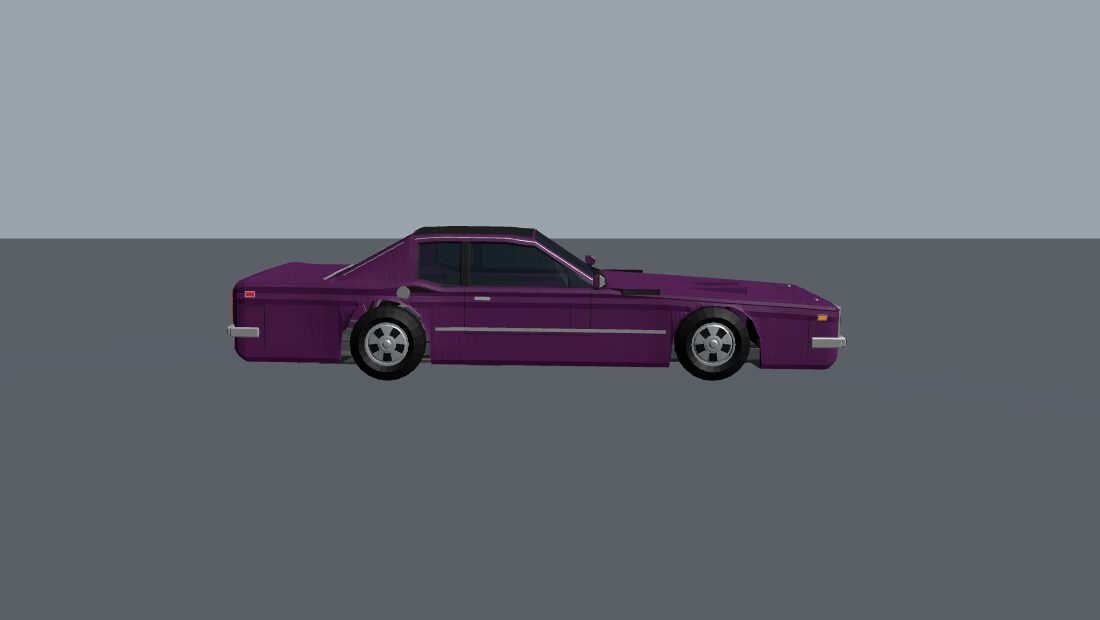
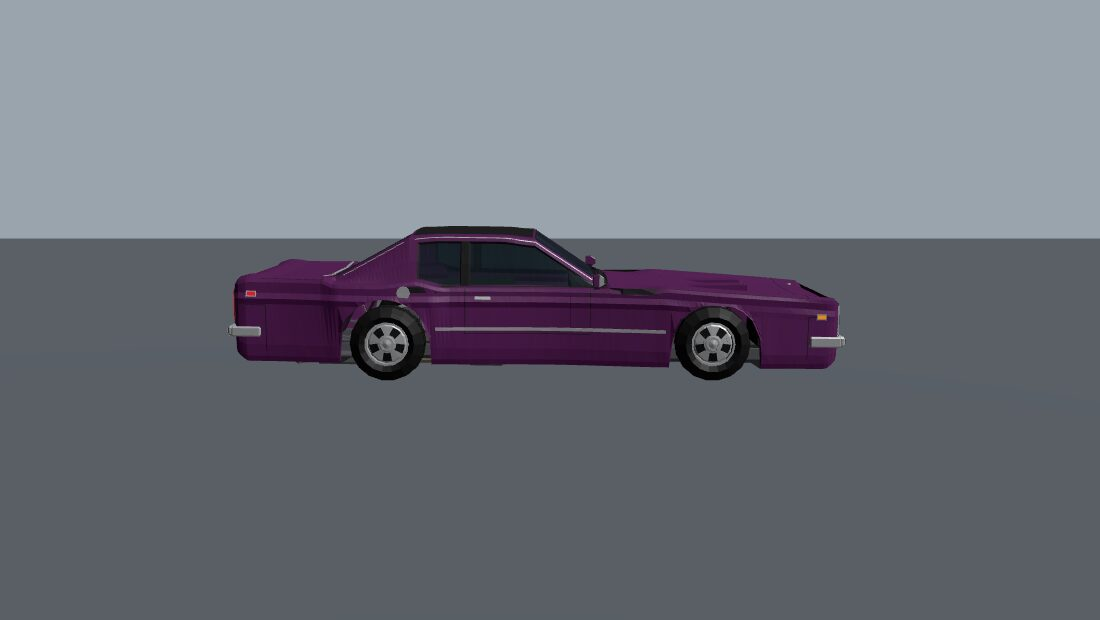
car-assets: muscle pass 3 shots and notes
Claude-Session: https://claude.ai/code/session_01M1HYJf9awSZHegqL4CVdzM

diff --git a/docs/integration/car-shapes-muscle.md b/docs/integration/car-shapes-muscle.md
@@ -10,6 +10,26 @@
 - No shared generator code, car defs, lattices or sim code changed. A full `gen-car-mesh` run
   changes only these four cars' meshes.
 
+## Pass 3 (phase-3 generator knobs, merged from ws/car-shapes d8e0a524)
+- **ironside_440:** coke-bottle plan (1.0 over both wheels, 0.935 at the doors, 0.95–0.96 at
+  the ends); front fender tops 5 cm above the hood (replaces `hood_valley`), rear haunch tops
+  3.5 cm above the deck; pontoon hips (+3.5 cm over the rear wheel), a shoulder line 8 cm under
+  the belt, 2 cm side bulge, 3 cm rocker tuck.
+- **rampart_50:** narrow shark-nose plan (0.90 at the nose), waist 0.95, tail 0.94; fender
+  peaks 3.5 / 5 cm; pontoon hips, a shoulder line and a 3.5 cm cove low on the doors; rounded
+  section (bulge 3 cm high on the side), 4.5 cm rocker tuck, 26 cm tumblehome. Projected
+  lamps replace the local prism stop-gaps: angular head lamps wrapping onto the fenders (yaw
+  25°, black bezel, amber outer segment, running-light lens), wedge tail lamps wrapping onto
+  the quarters (bezel, red-on-red outer segment); the black tail panel now only fills the centre.
+- **bulwark_400:** gentle waist (0.955) and tapered ends, fender tops 3 cm / haunches 2.5 cm,
+  pontoon hips, shoulder line, 1.5 cm bulge.
+- **brigand_400:** slab-straight sides with barely tapered ends, squared front fender tops 4 cm
+  above the hood, one crisp mid-side character line; the corner tail lamps are now projected
+  lenses swung 35° round onto the quarters (bottom strip = signal).
+- The 70s cars use 18 wheel segments (was 20) to pay for the extra loft stations.
+- Waiting on phase 3b (nose / tail rake and chin, hood / deck dz, roof-arc exponent, DLO
+  kink, arch shapes, smooth shading) for a touch-up pass.
+
 ## Second pass (after the lead's "be bold" and "no brand cues" notes)
 - **Proportions:** ironside hood +7 cm longer (cabin −0.42 m), roof −3 cm, coke-bottle hips
   (haunch 7 cm) with fender peaks either side of a sunken hood (front haunch 3.5 cm, hood valley
@@ -100,10 +120,10 @@ ribbed reflector panel, landau roof with chrome band, rubber side strip, chrome 
 ## Triangle counts (hero budget 22k, mid 7k)
 | car | full before | full now | mid before | mid now |
 |---|---|---|---|---|
-| ironside_440 | 19809 | 21008 | 5451 | 5702 |
-| rampart_50 | 19954 | 19568 | 5380 | 5188 |
-| bulwark_400 | 20579 | 21539 | 5621 | 6027 |
-| brigand_400 | 20986 | 21793 | 6042 | 5922 |
+| ironside_440 | 19809 | 20318 | 5451 | 5822 |
+| rampart_50 | 19954 | 20910 | 5380 | 5910 |
+| bulwark_400 | 20579 | 20825 | 5621 | 6171 |
+| brigand_400 | 20986 | 21363 | 6042 | 6375 |
 
 ## Checks
 `cargo fmt`, `cargo clippy -p car-assets --all-targets -- -D warnings`, `cargo test -p
